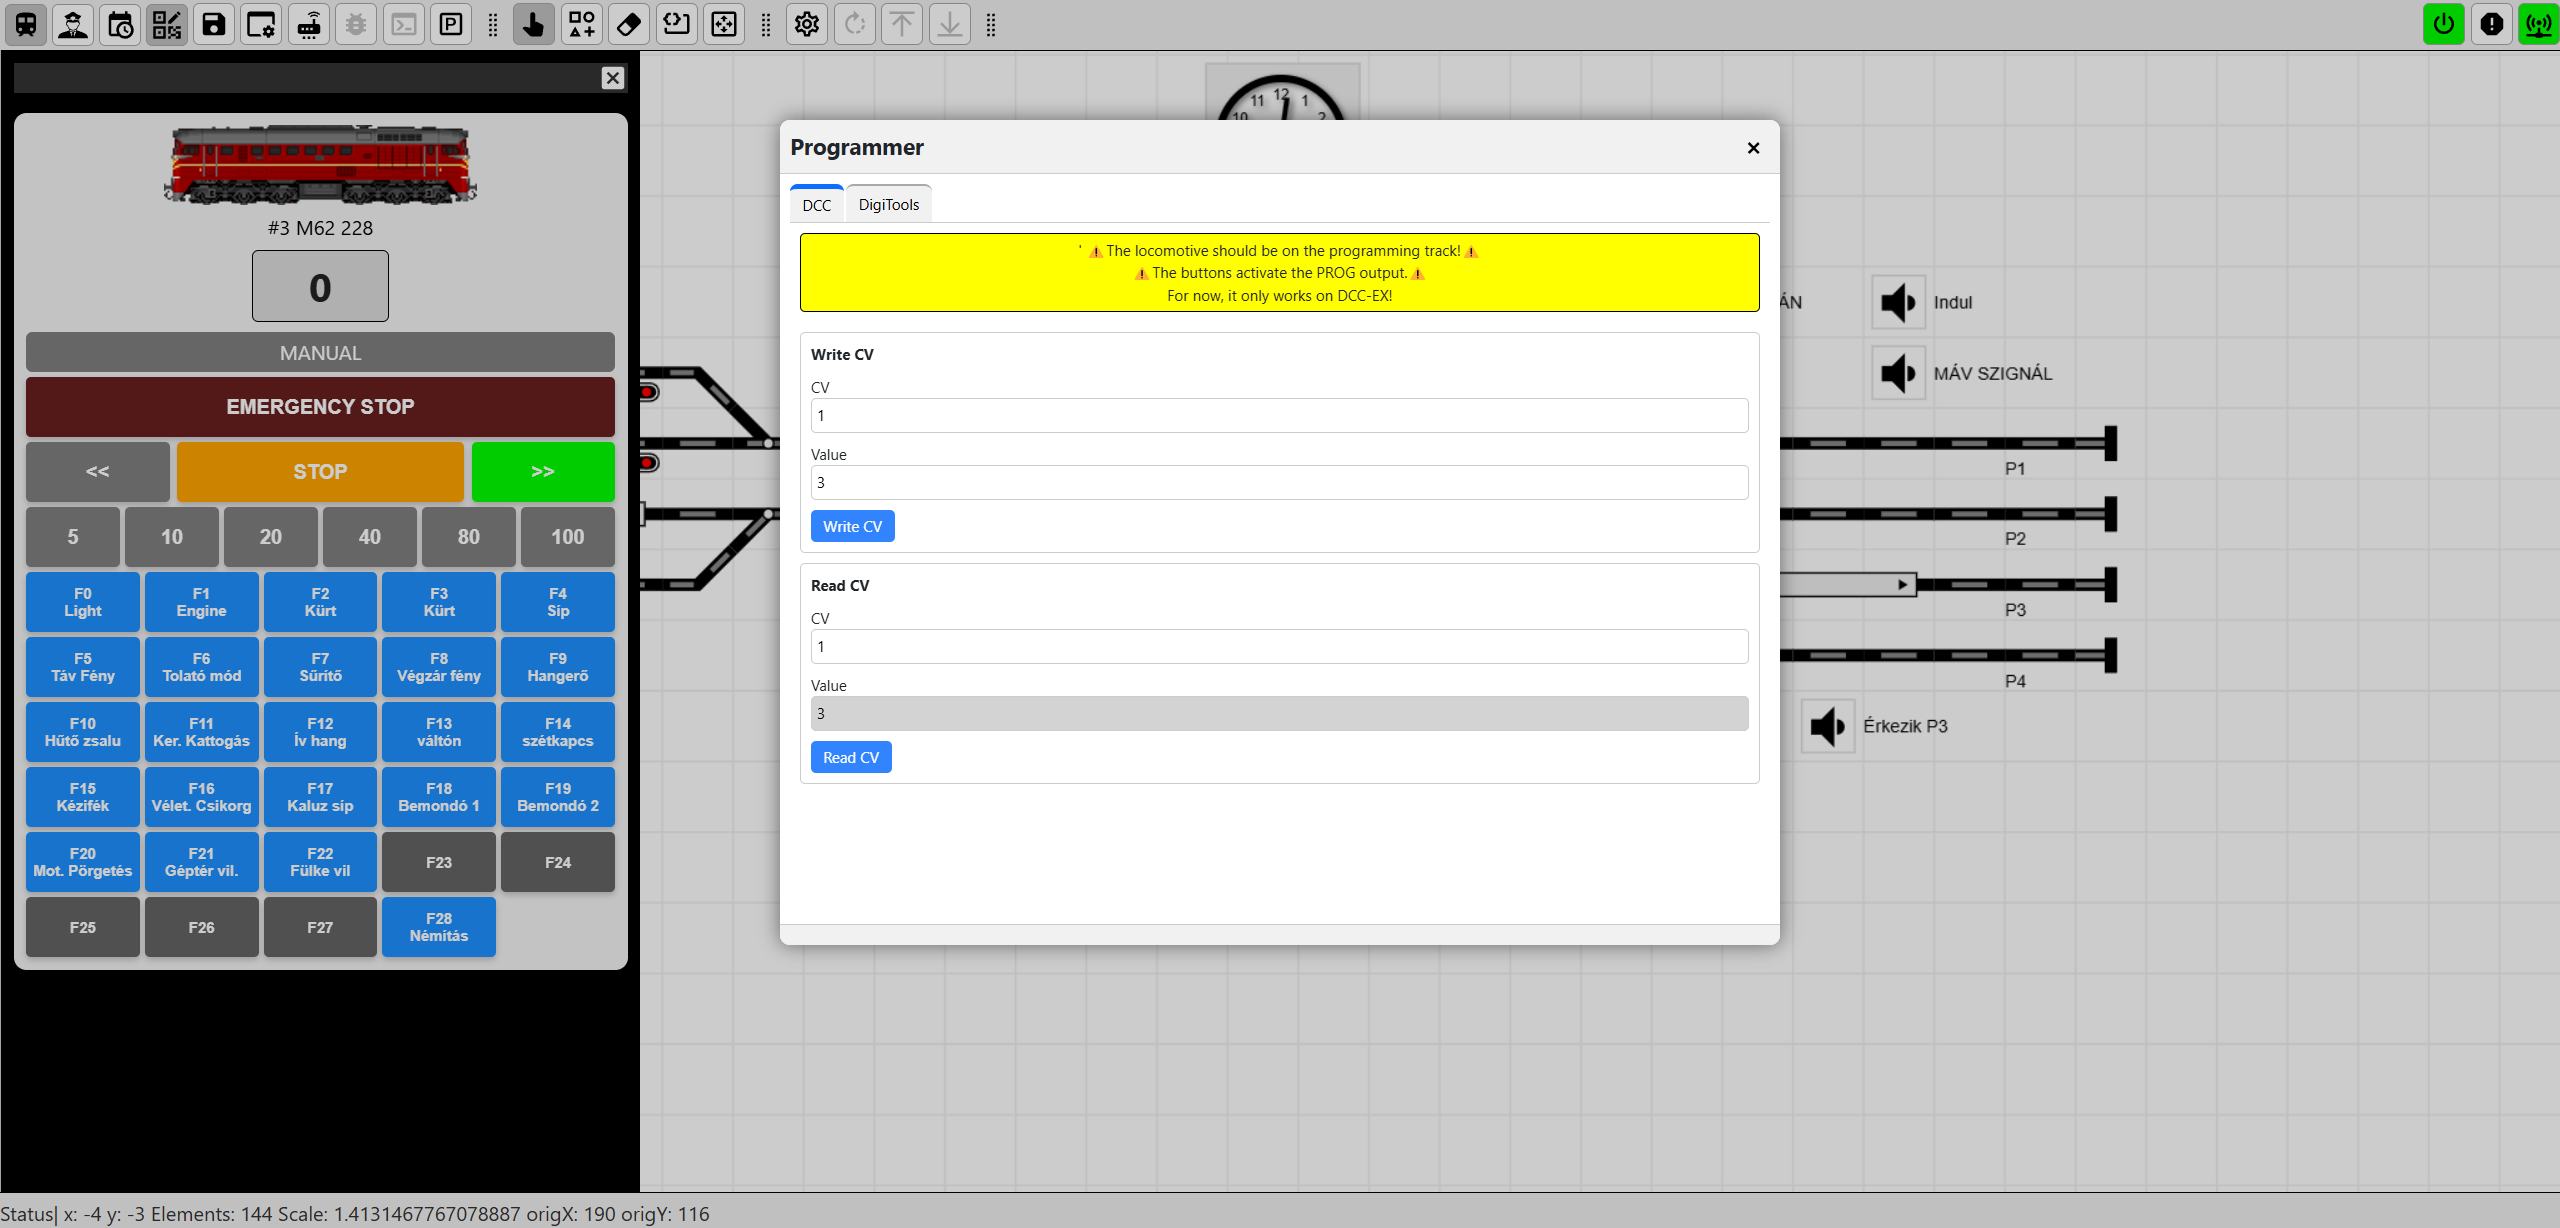
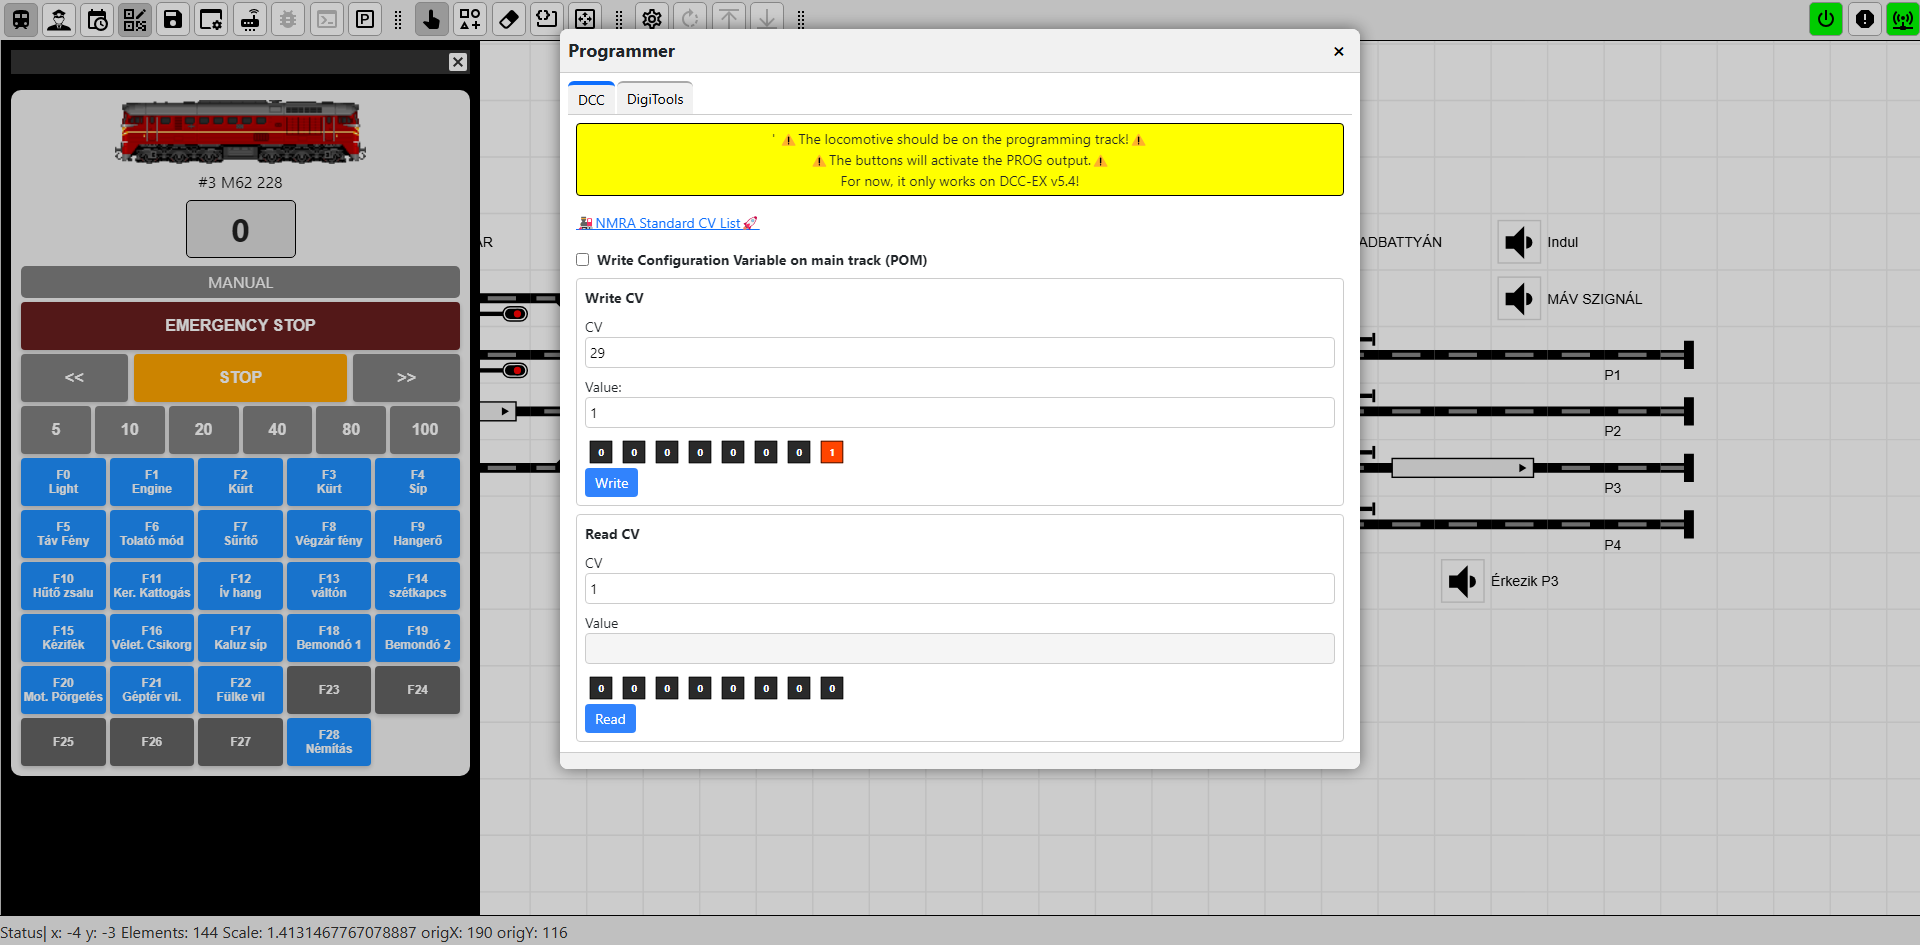
prog window

Changed region(s): [[0.0, 0.0, 1.0, 0.8286], [0.0, 0.9513, 1.0, 1.0]]

diff --git a/client/src/dialogs/programmerDialog.ts b/client/src/dialogs/programmerDialog.ts
@@ -22,7 +22,7 @@ export class ProgrammerDialog extends Dialog {
     writeAddressElement: InputNumber | undefined;
 
     constructor() {
-        super(800, 680, "Programmer");
+        super(800, 740, "Programmer");
 
         this.bodyElement.style.fontSize = "14px";
         const tabcontrol = new TabControl();
@@ -36,7 +36,7 @@ export class ProgrammerDialog extends Dialog {
     writeValidate() {
         var v = parseInt(this.writeValueInputElement!.value)
         this.btnWriteElement!.enabled = !Number.isNaN(v) && !Number.isNaN(this.writeCVInputElement!.value)
-        if(this.pomCheckboxElement!.checked) {
+        if (this.pomCheckboxElement!.checked) {
             this.btnWriteElement!.enabled = this.writeAddressElement!.value > 0
         }
     }
@@ -61,6 +61,7 @@ For now, it only works on DCC-EX v5.4!
             readGroupBoxElement.getElement().style.display = this.pomCheckboxElement!.checked ? "none" : "block";
             labelAddressElement.getElement().style.display = !this.pomCheckboxElement!.checked ? "none" : "block";
             this.writeAddressElement!.getElement().style.display = !this.pomCheckboxElement!.checked ? "none" : "block";
+            this.writeValidate()
         }
 
         const writeGroupBoxElement = new GroupBox("Write CV");
@@ -74,7 +75,7 @@ For now, it only works on DCC-EX v5.4!
         this.writeAddressElement.getElement().style.display = "none";
         writeGroupBoxElement.add(this.writeAddressElement);
         this.writeAddressElement.onchange = (e) => {
-            this.writeValidate()    
+            this.writeValidate()
         }
         this.writeAddressElement.getElement().onkeyup = (e) => {
             this.writeValidate()
@@ -86,7 +87,7 @@ For now, it only works on DCC-EX v5.4!
         this.writeCVInputElement.onchange = (e) => {
             this.writeValidate()
         }
-        this.writeCVInputElement.getElement().onkeyup =(e) => {
+        this.writeCVInputElement.getElement().onkeyup = (e) => {
             this.writeValidate()
         }
 
@@ -141,13 +142,38 @@ For now, it only works on DCC-EX v5.4!
         this.btnWriteElement.enabled = false
         writeGroupBoxElement.add(this.btnWriteElement);
         this.btnWriteElement.onclick = () => {
+
+
             if (this.writeCVInputElement!.value >= 0) {
                 readCVInputElement.value = -1;
                 readValueInputNumberElement.value = -1;
+
+                const cv = this.writeCVInputElement!.value
+                const value = parseInt(this.writeValueInputElement!.value)
+                var err = ""
+                if (Number.isNaN(cv) || cv < 0) {
+                    err += "Invalid value of Write CV !\n"
+                }
+                if (Number.isNaN(value) || value < 0 || value > 255) {
+                    err += "Invalid value of Write value! (0..255)\n"
+                }
+
+
                 if (this.pomCheckboxElement!.checked) {
-                    wsClient.send({ type: ApiCommands.writeDccExDirectCommand, data: { command: '<1 PROG><w ' + this.writeAddressElement!.value + ' ' + this.writeCVInputElement!.value + ' ' + this.writeValueInputElement!.value + '>' } as iDccExDirectCommand });
+                    const address = this.writeAddressElement!.value
+                    if (Number.isNaN(address) || address < 0 || value > 9999) {
+                        err += "Invalid value of Write value! (0..9999)\n"
+                    }
+
+                    if (err == "") {
+                        wsClient.send({ type: ApiCommands.writeDccExDirectCommand, data: { command: `<1 PROG><w ${address} ${cv} ${value}>` } as iDccExDirectCommand });
+                    }
+                    else alert(err)
                 } else {
-                    wsClient.send({ type: ApiCommands.writeDccExDirectCommand, data: { command: '<1 PROG><W ' + this.writeCVInputElement!.value + ' ' + this.writeValueInputElement!.value + '>' } as iDccExDirectCommand });
+                    if (err == "") {
+                        wsClient.send({ type: ApiCommands.writeDccExDirectCommand, data: { command: `<1 PROG><W ${cv} ${value}>` } as iDccExDirectCommand });
+                    }
+                    else alert(err)
                 }
             }
         }
@@ -165,7 +191,7 @@ For now, it only works on DCC-EX v5.4!
         (readValueInputNumberElement.getElement() as HTMLInputElement).readOnly = true;
         (readValueInputNumberElement.getElement() as HTMLInputElement).style.backgroundColor = "whitesmoke";
         readGroupBoxElement.add(readValueInputNumberElement);
-        readValueInputNumberElement.onchange =((inp) => {
+        readValueInputNumberElement.onchange = ((inp) => {
             var vv = inp.value
             for (var i = 0; i < 8; i++) {
                 this.readBitElements[i].value = ((vv >> i) & 1) > 0
@@ -180,7 +206,7 @@ For now, it only works on DCC-EX v5.4!
         for (var i = 7; i >= 0; i--) {
             this.readBitElements[i] = document.createElement("bit-element") as BitElement
             this.readBitElements[i].style.scale = "0.7"
-            this.readBitElements[i].onclick = (e) => {}
+            this.readBitElements[i].onclick = (e) => { }
             dd.appendChild(this.readBitElements[i])
             this.readBitElements[i].style.cursor = "default"
         }

diff --git a/dist/js/client/src/dialogs/programmerDialog.js b/dist/js/client/src/dialogs/programmerDialog.js
@@ -4,7 +4,7 @@ define(["require", "exports", "../controls/dialog", "../helpers/ws", "../../../c
     exports.ProgrammerDialog = void 0;
     class ProgrammerDialog extends dialog_1.Dialog {
         constructor() {
-            super(800, 680, "Programmer");
+            super(800, 740, "Programmer");
             this.writeBitElements = {};
             this.readBitElements = {};
             this.bodyElement.style.fontSize = "14px";
@@ -38,6 +38,7 @@ For now, it only works on DCC-EX v5.4!
                 readGroupBoxElement.getElement().style.display = this.pomCheckboxElement.checked ? "none" : "block";
                 labelAddressElement.getElement().style.display = !this.pomCheckboxElement.checked ? "none" : "block";
                 this.writeAddressElement.getElement().style.display = !this.pomCheckboxElement.checked ? "none" : "block";
+                this.writeValidate();
             };
             const writeGroupBoxElement = new dialog_1.GroupBox("Write CV");
             tab.addComponent(writeGroupBoxElement);
@@ -111,11 +112,32 @@ For now, it only works on DCC-EX v5.4!
                 if (this.writeCVInputElement.value >= 0) {
                     readCVInputElement.value = -1;
                     readValueInputNumberElement.value = -1;
+                    const cv = this.writeCVInputElement.value;
+                    const value = parseInt(this.writeValueInputElement.value);
+                    var err = "";
+                    if (Number.isNaN(cv) || cv < 0) {
+                        err += "Invalid value of Write CV !\n";
+                    }
+                    if (Number.isNaN(value) || value < 0 || value > 255) {
+                        err += "Invalid value of Write value! (0..255)\n";
+                    }
                     if (this.pomCheckboxElement.checked) {
-                        ws_1.wsClient.send({ type: dcc_1.ApiCommands.writeDccExDirectCommand, data: { command: '<1 PROG><w ' + this.writeAddressElement.value + ' ' + this.writeCVInputElement.value + ' ' + this.writeValueInputElement.value + '>' } });
+                        const address = this.writeAddressElement.value;
+                        if (Number.isNaN(address) || address < 0 || value > 9999) {
+                            err += "Invalid value of Write value! (0..9999)\n";
+                        }
+                        if (err == "") {
+                            ws_1.wsClient.send({ type: dcc_1.ApiCommands.writeDccExDirectCommand, data: { command: `<1 PROG><w ${address} ${cv} ${value}>` } });
+                        }
+                        else
+                            alert(err);
                     }
                     else {
-                        ws_1.wsClient.send({ type: dcc_1.ApiCommands.writeDccExDirectCommand, data: { command: '<1 PROG><W ' + this.writeCVInputElement.value + ' ' + this.writeValueInputElement.value + '>' } });
+                        if (err == "") {
+                            ws_1.wsClient.send({ type: dcc_1.ApiCommands.writeDccExDirectCommand, data: { command: `<1 PROG><W ${cv} ${value}>` } });
+                        }
+                        else
+                            alert(err);
                     }
                 }
             };
